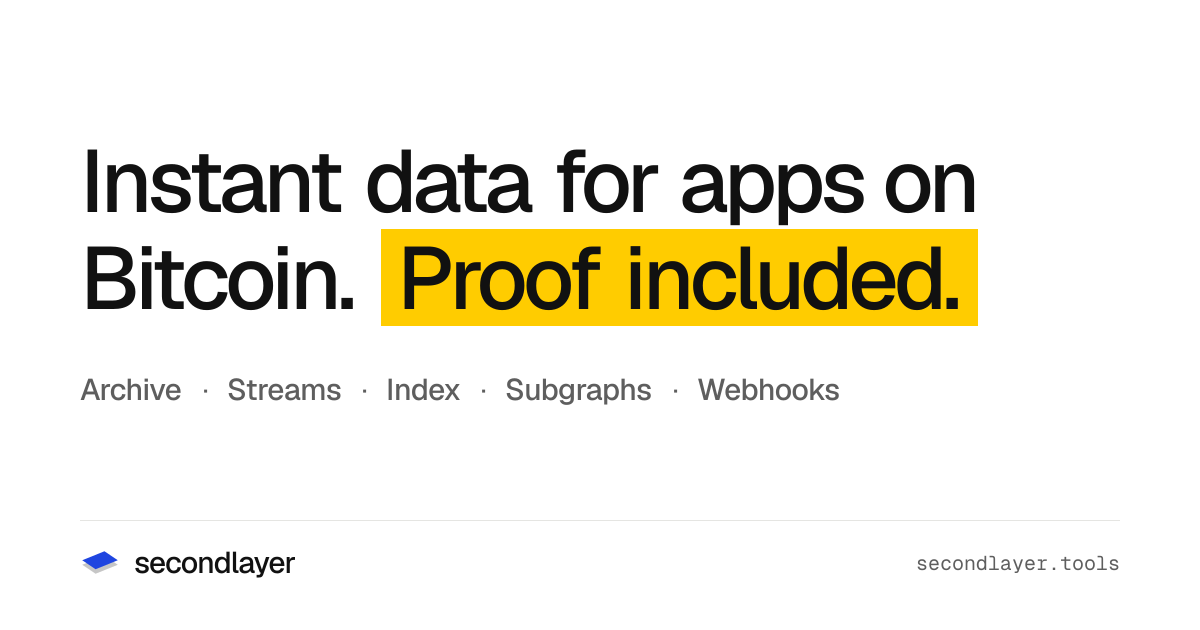
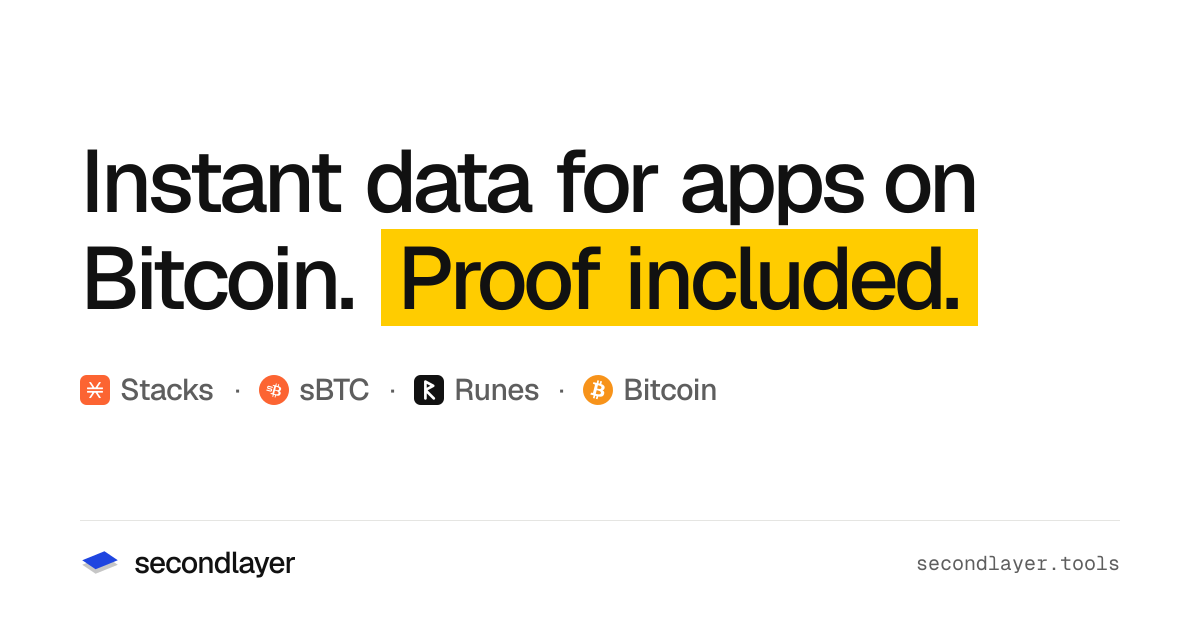
feat(web): home share card shows the chain marks; titles and descriptions say proof included

Changed region(s): [[0.0617, 0.573, 0.7092, 0.6635]]

diff --git a/apps/web/scripts/generate-og.tsx b/apps/web/scripts/generate-og.tsx
@@ -12,6 +12,7 @@ import { readFile, writeFile } from "node:fs/promises";
 import { join } from "node:path";
 import { ImageResponse } from "next/og";
 import { STACKS_SYMBOL_PATH } from "../src/app/robinhood/stacks-symbol";
+import { type Chain, MARKS } from "../src/components/site/chain-marks";
 import { POSTS } from "../src/lib/writing";
 
 const FONT_DIR = join(process.cwd(), "src/assets/og-fonts");
@@ -173,27 +174,82 @@ function VLine({ height }: { height: number }) {
 
 // ── artifacts (flat, simplified from the page heroes) ────────────────────────
 
+/** One mark from the site's chips, colored inline (satori has no CSS). */
+function Mark({ chain, size }: { chain: Chain; size: number }) {
+	const { size: box, shapes, colors } = MARKS[chain];
+	return (
+		<svg
+			width={size}
+			height={size}
+			viewBox={`0 0 ${box} ${box}`}
+			aria-hidden="true"
+		>
+			{shapes.map((shape, i) =>
+				"rx" in shape ? (
+					<rect
+						// biome-ignore lint/suspicious/noArrayIndexKey: fixed shapes, never reordered
+						key={i}
+						width={box}
+						height={box}
+						rx={shape.rx}
+						fill={colors[shape.role]}
+					/>
+				) : shape.stroke ? (
+					<path
+						// biome-ignore lint/suspicious/noArrayIndexKey: fixed shapes, never reordered
+						key={i}
+						d={shape.d}
+						transform={shape.transform}
+						fill="none"
+						stroke={colors[shape.role]}
+						strokeWidth={9}
+						strokeLinecap="round"
+						strokeLinejoin="round"
+					/>
+				) : (
+					<path
+						// biome-ignore lint/suspicious/noArrayIndexKey: fixed shapes, never reordered
+						key={i}
+						d={shape.d}
+						transform={shape.transform}
+						fill={colors[shape.role]}
+					/>
+				),
+			)}
+		</svg>
+	);
+}
+
+/** The home card names what it indexes, each with its mark, as the site does. */
 function ArtHome() {
-	const nouns = ["Archive", "Streams", "Index", "Subgraphs", "Webhooks"];
+	const chains: [Chain, string][] = [
+		["stacks", "Stacks"],
+		["sbtc", "sBTC"],
+		["runes", "Runes"],
+		["bitcoin", "Bitcoin"],
+	];
 	return (
 		<div style={{ display: "flex", alignItems: "center", gap: 18 }}>
-			{nouns.map((noun, i) => (
+			{chains.map(([chain, name], i) => (
 				<div
-					key={noun}
+					key={chain}
 					style={{ display: "flex", alignItems: "center", gap: 18 }}
 				>
 					{i > 0 ? <span style={{ fontSize: 26, color: SUB }}>·</span> : null}
-					<span
-						style={{
-							fontFamily: "Geist",
-							fontWeight: 500,
-							fontSize: 30,
-							color: SUB,
-							letterSpacing: -0.6,
-						}}
-					>
-						{noun}
-					</span>
+					<div style={{ display: "flex", alignItems: "center", gap: 10 }}>
+						<Mark chain={chain} size={30} />
+						<span
+							style={{
+								fontFamily: "Geist",
+								fontWeight: 500,
+								fontSize: 30,
+								color: SUB,
+								letterSpacing: -0.6,
+							}}
+						>
+							{name}
+						</span>
+					</div>
 				</div>
 			))}
 		</div>

diff --git a/apps/web/src/app/layout.tsx b/apps/web/src/app/layout.tsx
@@ -28,10 +28,10 @@ export const metadata: Metadata = {
 	// previews on shared links.
 	metadataBase: new URL("https://www.secondlayer.tools"),
 	title: "secondlayer",
-	description: "Instant data for apps on Bitcoin.",
+	description: "Instant data for apps on Bitcoin. Proof included.",
 	openGraph: {
 		title: "secondlayer",
-		description: "Instant data for apps on Bitcoin.",
+		description: "Instant data for apps on Bitcoin. Proof included.",
 		siteName: "secondlayer",
 		type: "website",
 		images: [
@@ -41,7 +41,7 @@ export const metadata: Metadata = {
 	twitter: {
 		card: "summary_large_image",
 		title: "secondlayer",
-		description: "Instant data for apps on Bitcoin.",
+		description: "Instant data for apps on Bitcoin. Proof included.",
 		images: ["/og/home.png"],
 	},
 };

diff --git a/apps/web/src/app/(www)/page.tsx b/apps/web/src/app/(www)/page.tsx
@@ -14,10 +14,10 @@ import Link from "next/link";
 import type { ReactNode } from "react";
 
 const SUB =
-	"Index Stacks and Runes from their first block, stream new ones as they land, and prove Stacks data back to Bitcoin. Runes on hosted is coming soon.";
+	"Index Stacks and Runes from their first block, stream new ones as they land, and prove Stacks data back to Bitcoin.";
 
 export const metadata: Metadata = socialMeta({
-	title: "secondlayer · instant data for apps on Bitcoin",
+	title: "secondlayer · instant data for apps on Bitcoin, proof included",
 	description: `${SUB} Hosted, or on your own box.`,
 	image: "/og/home.png",
 	path: "/",
